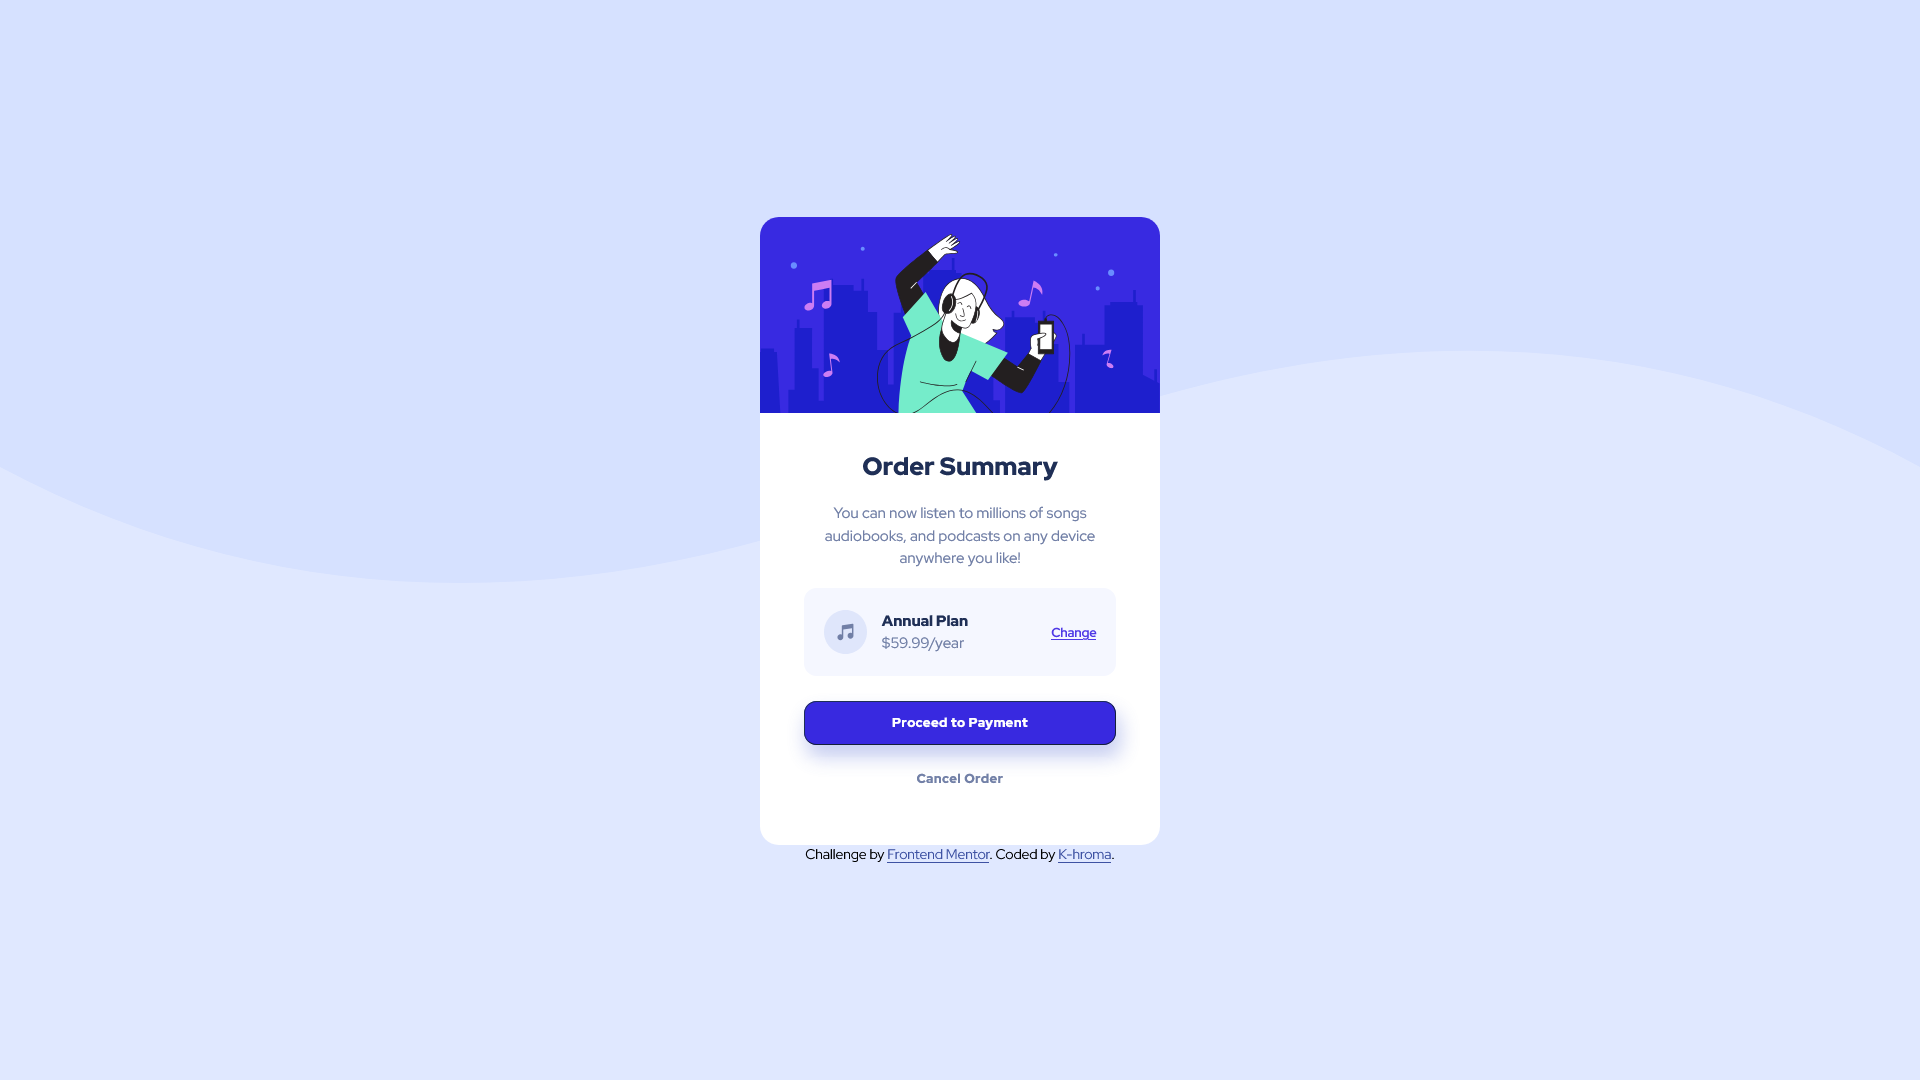
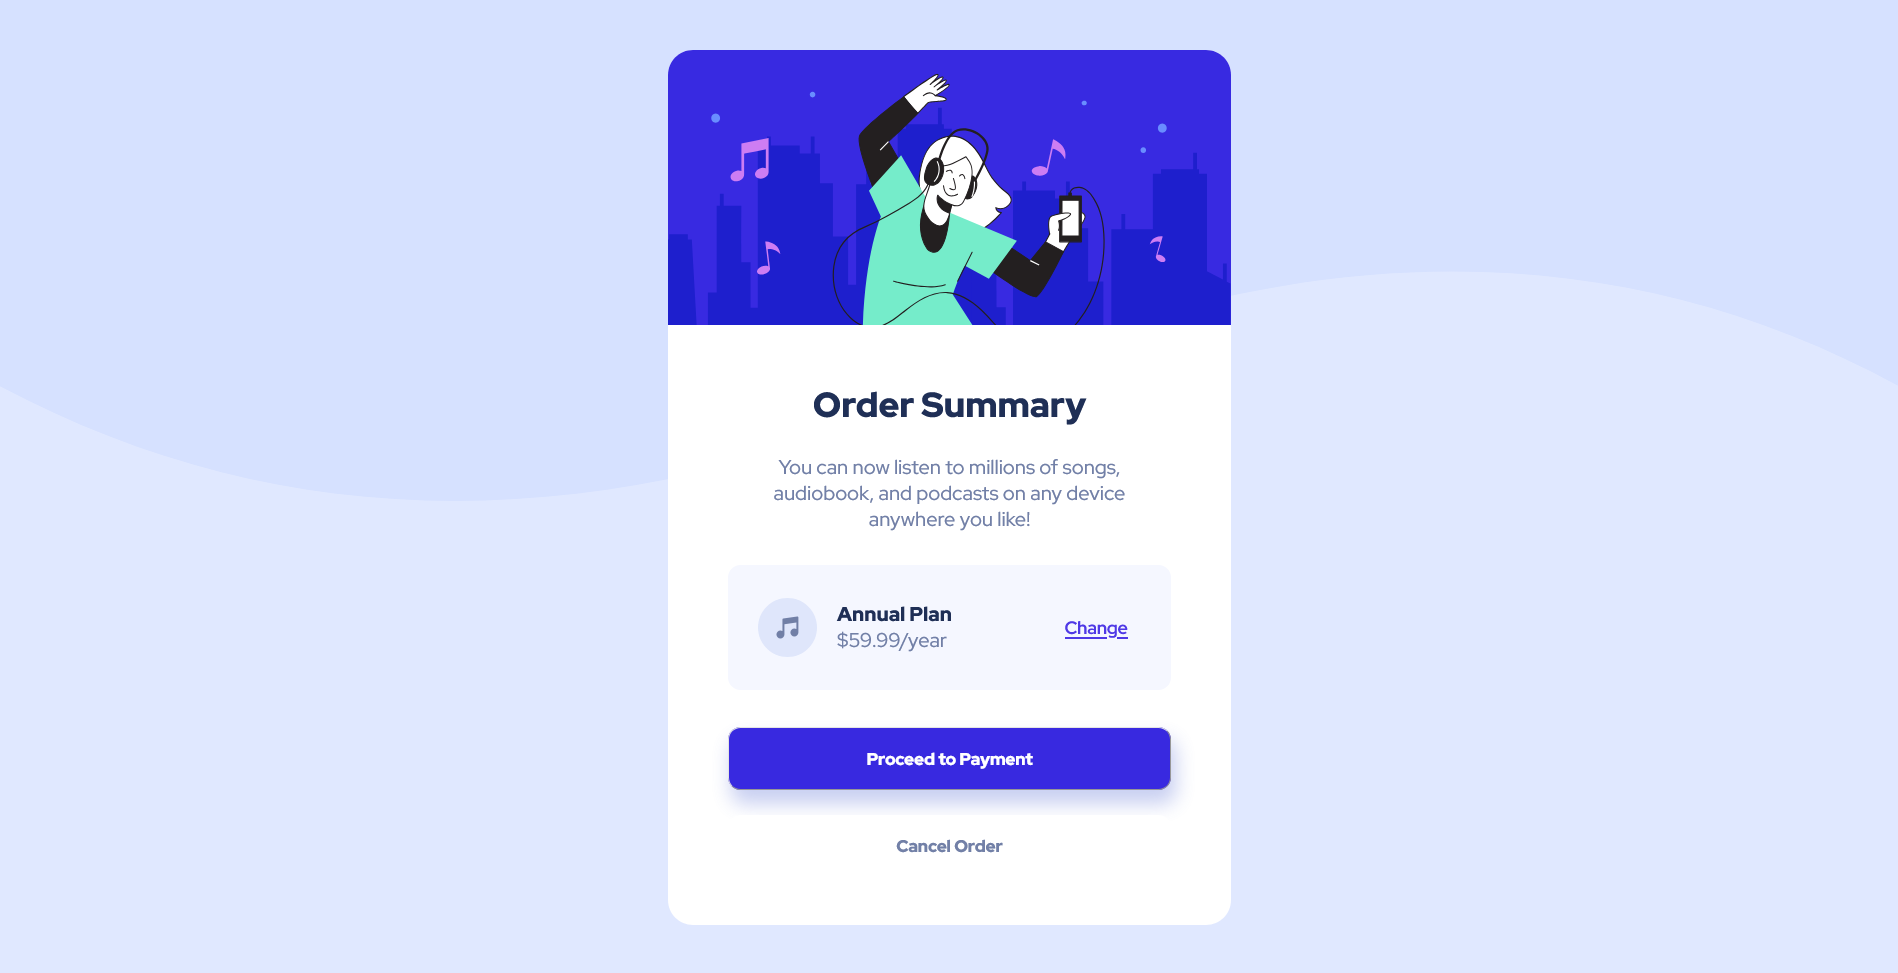
readme update

Changed region(s): [[0.3419, 0.0308, 0.6528, 0.9558]]

diff --git a/README.md b/README.md
@@ -24,12 +24,12 @@ Users should be able to:
 
 ## Screenshot
 
-![Order summary card]()
+![Order summary card](./assets/Screenshot.png)
 
 ## Links
 
-- Solution URL: []
-- Live Site URL: []
+- Solution URL: [https://github.com/k-hroma/Order-Summary-Card-using-css-and-flexbox.git]
+- Live Site URL: [https://k-hroma.github.io/Order-Summary-Card-using-css-and-flexbox/]
 
 
 ## Built with
